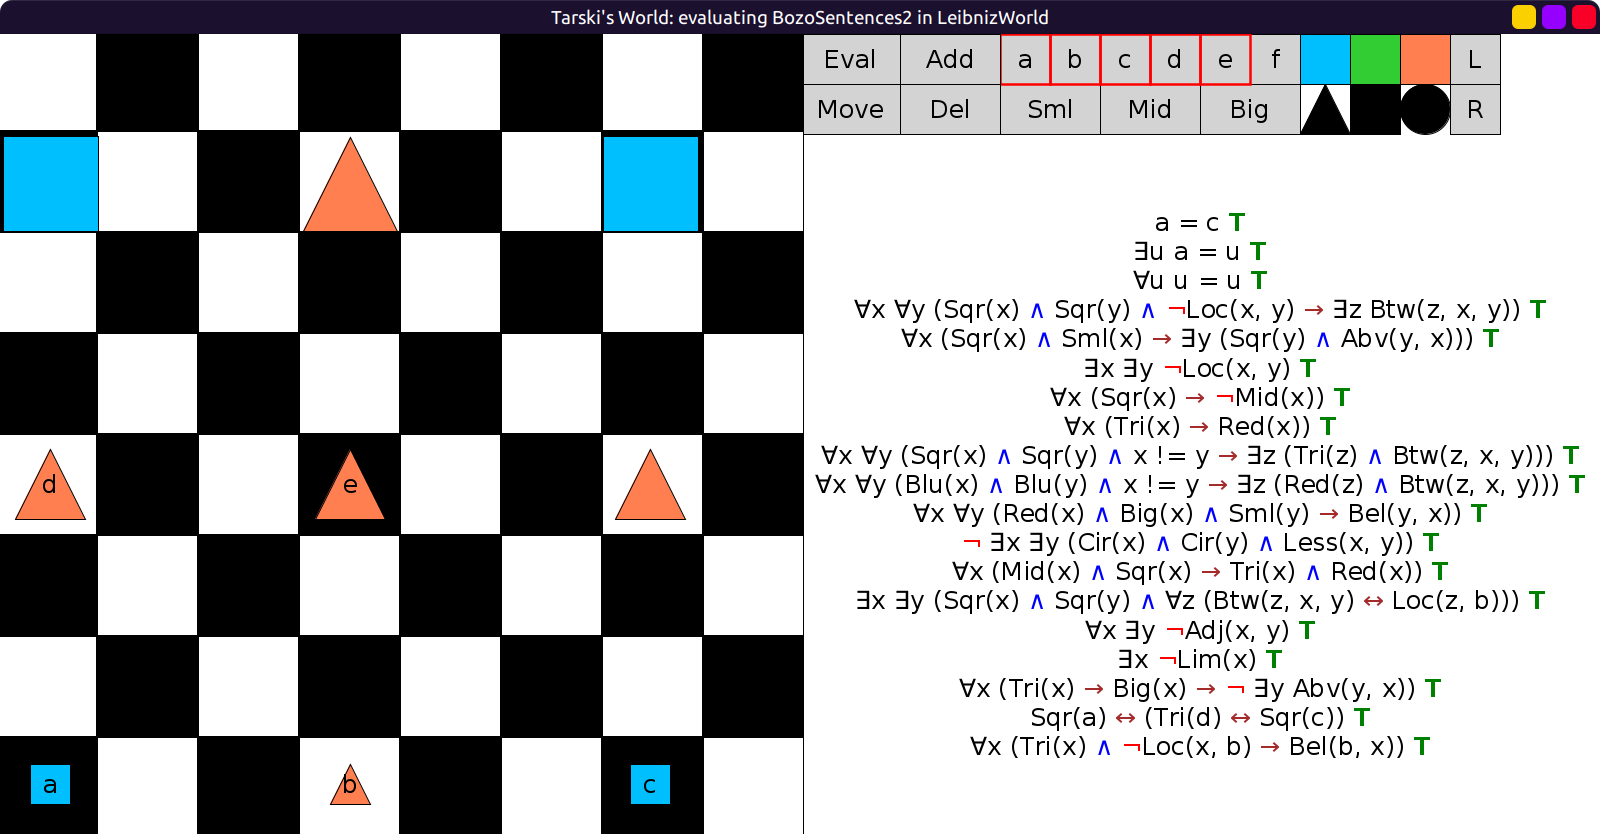
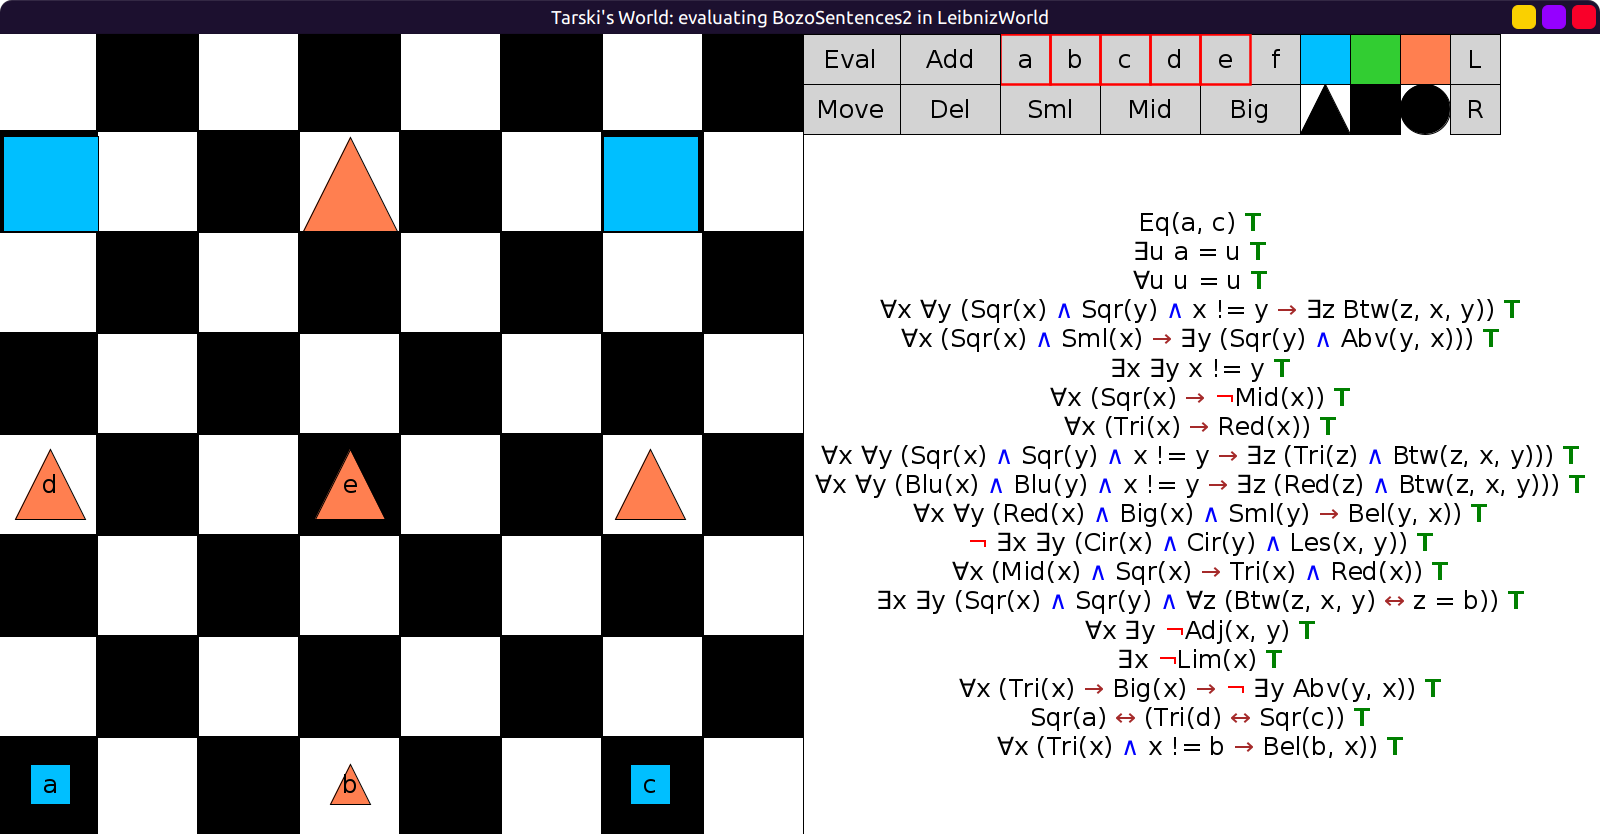
rework ex q08

diff --git a/examples/quantifier-logic/08/README.md b/examples/quantifier-logic/08/README.md
@@ -2,7 +2,7 @@
 
 - Try running `runQ08`, it will crash.
 - Look at `BozoSentences2`.
-- Most of the expressions in this file are not sentences.
+- Most of the expressions in this list are not sentences.
 - Some are not wffs, while others are wffs but not sentences.
 - Read and assess each one.
 - If it is not a wff, fix it.
@@ -17,8 +17,9 @@
 - See if you can capture the intent of the original expression.
 - Save your modified sentences.
 
-(Recall that equality `=` means "value equality", a.k.a. equality:
+(Recall that `Eq` means "value equality", a.k.a. equality:
 `Eq(a, b)` if the blocks labeled `a` and `b` are equal in size, shape and tone.
-This is in contrast to "reference equality" `Loc`, a.k.a. identity:
-`Loc(x,y)` means that `x` and `y` have the same row and column on the board,
-in other words they refer to the same block, i.e. they are identical.)
+This is in contrast to "reference equality" `=`, a.k.a. identity:
+`x = y` means that `x` and `y` have the same row and column on the board,
+in other words they refer to the same block, i.e. they are identical.
+The negated form can be written as `x != y`.)

diff --git a/examples/quantifier-logic/08/solution.md b/examples/quantifier-logic/08/solution.md
@@ -10,17 +10,17 @@ val BozoSentences2 = Seq(
   fof"∃x ∃y x != y",
   fof"∀x (Sqr(x) → ¬Mid(x))",
   fof"∀x (Tri(x) → Red(x))",
-  fof"∀x ∀y ((Sqr(x) ∧ Sqr(y) ∧ ¬Eq(x, y)) → ∃z (Tri(z) ∧ Btw(z, x, y)))",
-  fof"∀x ∀y ((Blu(x) ∧ Blu(y) ∧ ¬Eq(x, y)) → ∃z (Red(z) ∧ Btw(z, x ,y)))",
+  fof"∀x ∀y ((Sqr(x) ∧ Sqr(y) ∧ x != y) → ∃z (Tri(z) ∧ Btw(z, x, y)))",
+  fof"∀x ∀y ((Blu(x) ∧ Blu(y) ∧ x != y) → ∃z (Red(z) ∧ Btw(z, x, y)))",
   fof"∀x ∀y ((Red(x) ∧ Big(x) ∧ Sml(y)) → Bel(y, x))",
   fof"¬ ∃x ∃y (Cir(x) ∧ Cir(y) ∧ Les(x, y))",
   fof"∀x (Mid(x) ∧ Sqr(x) → Tri(x) ∧ Red(x))",
   fof"∃x ∃y (Sqr(x) ∧ Sqr(y) ∧ ∀z (Btw(z, x, y) ↔ z = b))",
   fof"∀x ∃y ¬Adj(x, y)",
   fof"∃x ¬Lim(x)",
-  fof"∀x (Tri(x) → (Big(x) → ¬ ∃y Abv(y,x)))",
+  fof"∀x (Tri(x) → (Big(x) → ¬ ∃y Abv(y, x)))",
   fof"Sqr(a) ↔ (Tri(d) ↔ Sqr(c))",
-  fof"∀x (Tri(x) ∧ x != `b` → Bel(b, x))"
+  fof"∀x (Tri(x) ∧ x != b → Bel(b, x))"
 )
 ```
 

diff --git a/examples/quantifier-logic/06/README.md b/examples/quantifier-logic/06/README.md
@@ -29,6 +29,6 @@ This example is designed to show you exactly what a sentence of this form means.
 
 American mathematician, computer scientist, logician (1903 - 1995)
 
-Inventor of lambda calculus.
+Inventor of lambda calculus, Turing's teacher and one of the fathers of computer science.
 
 <https://en.wikipedia.org/wiki/Alonzo_Church>
